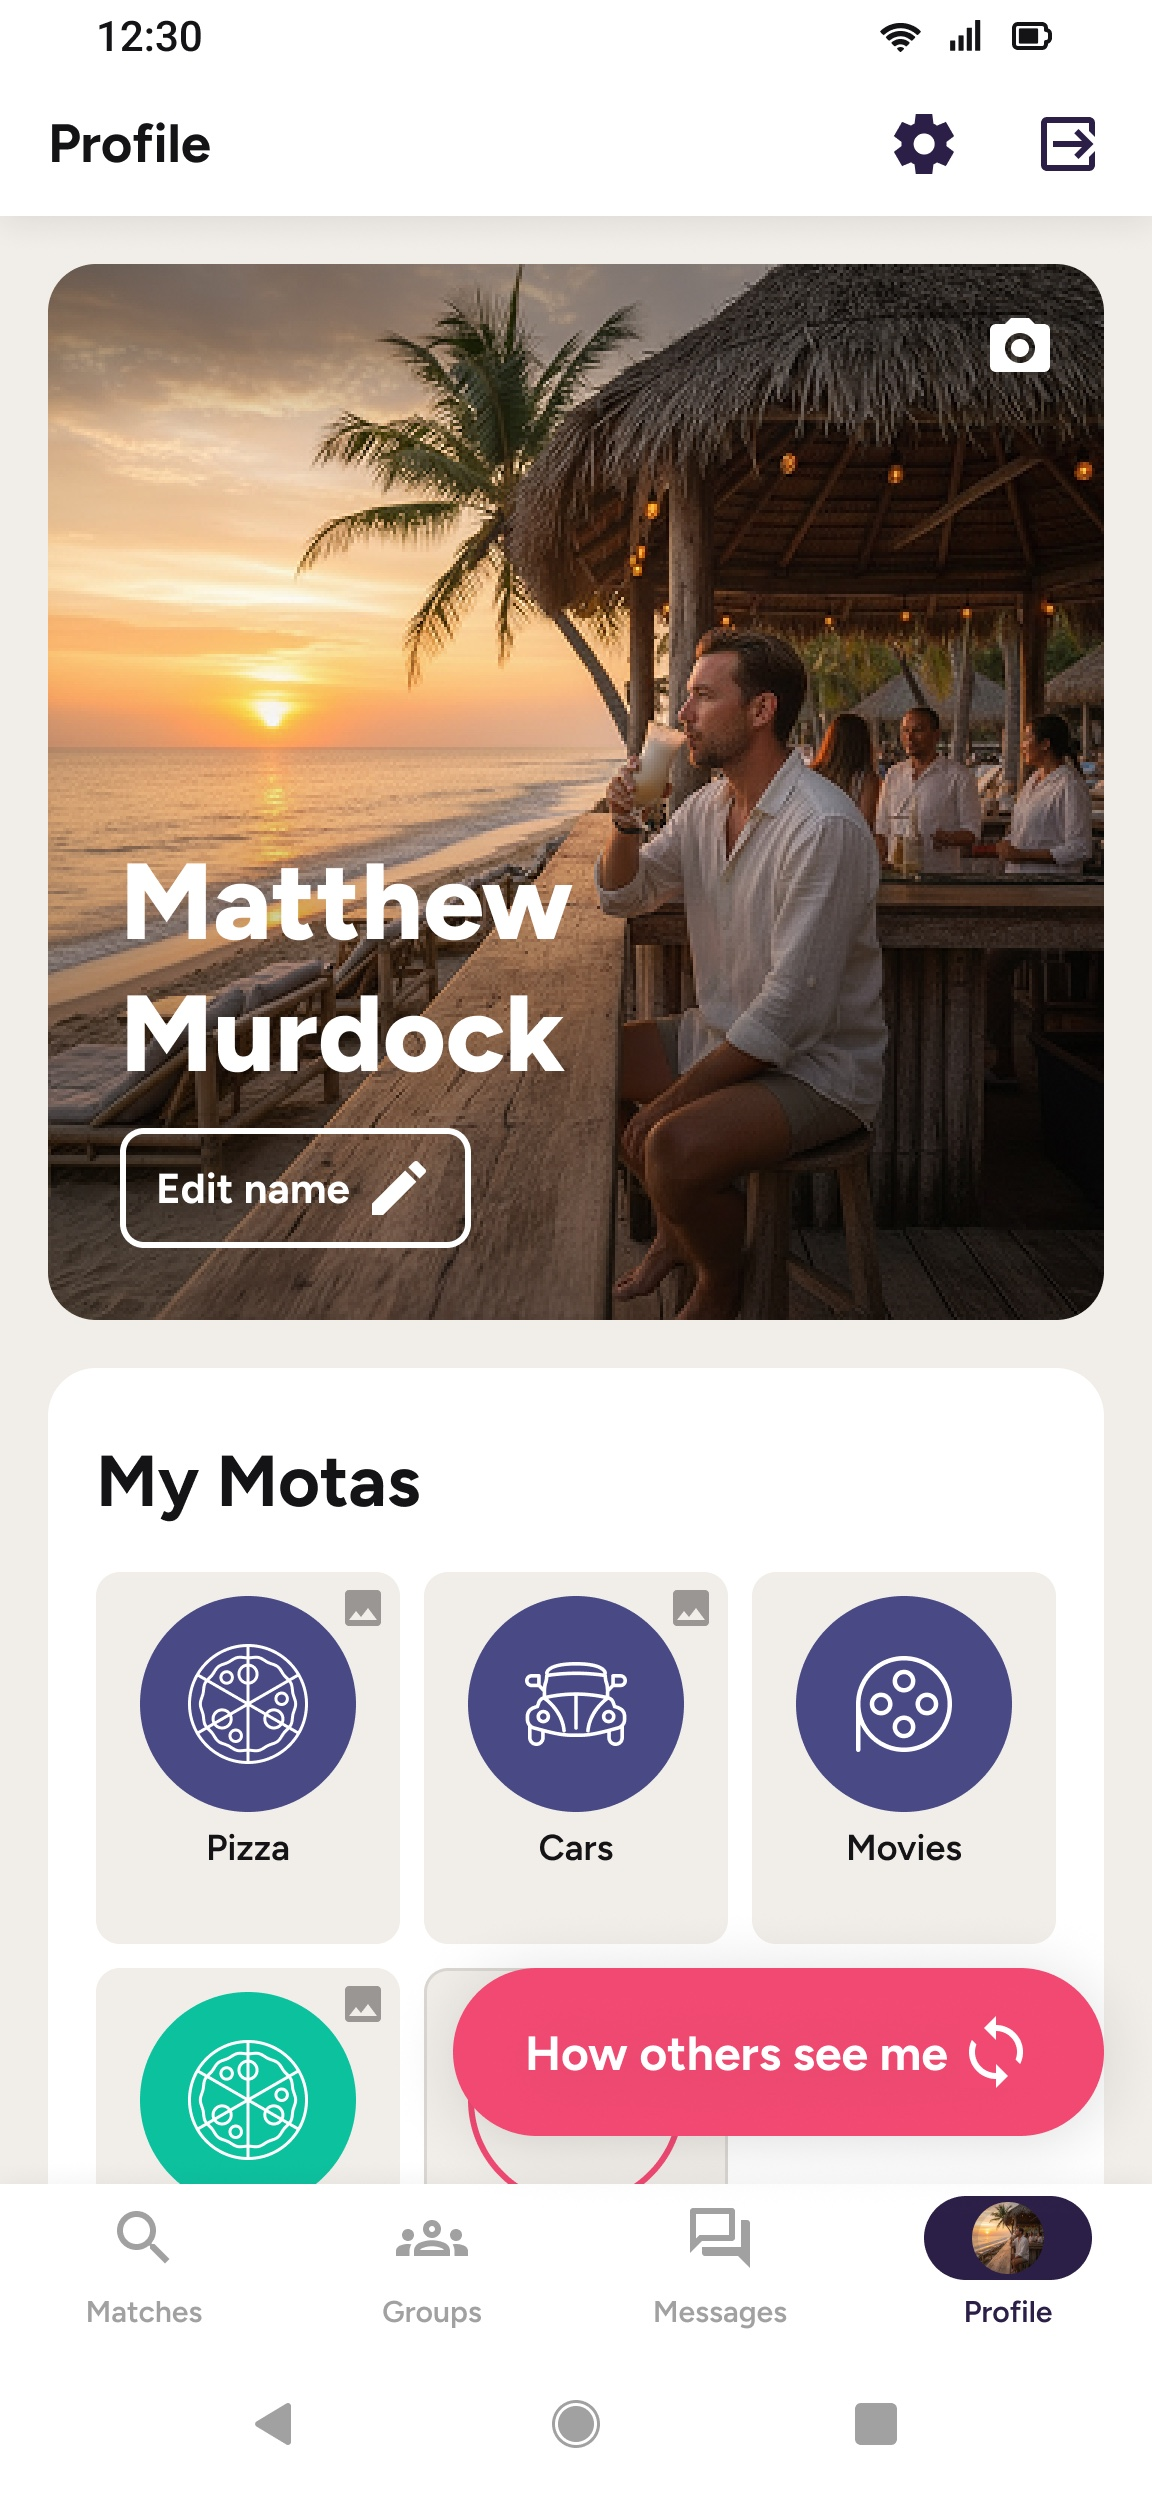
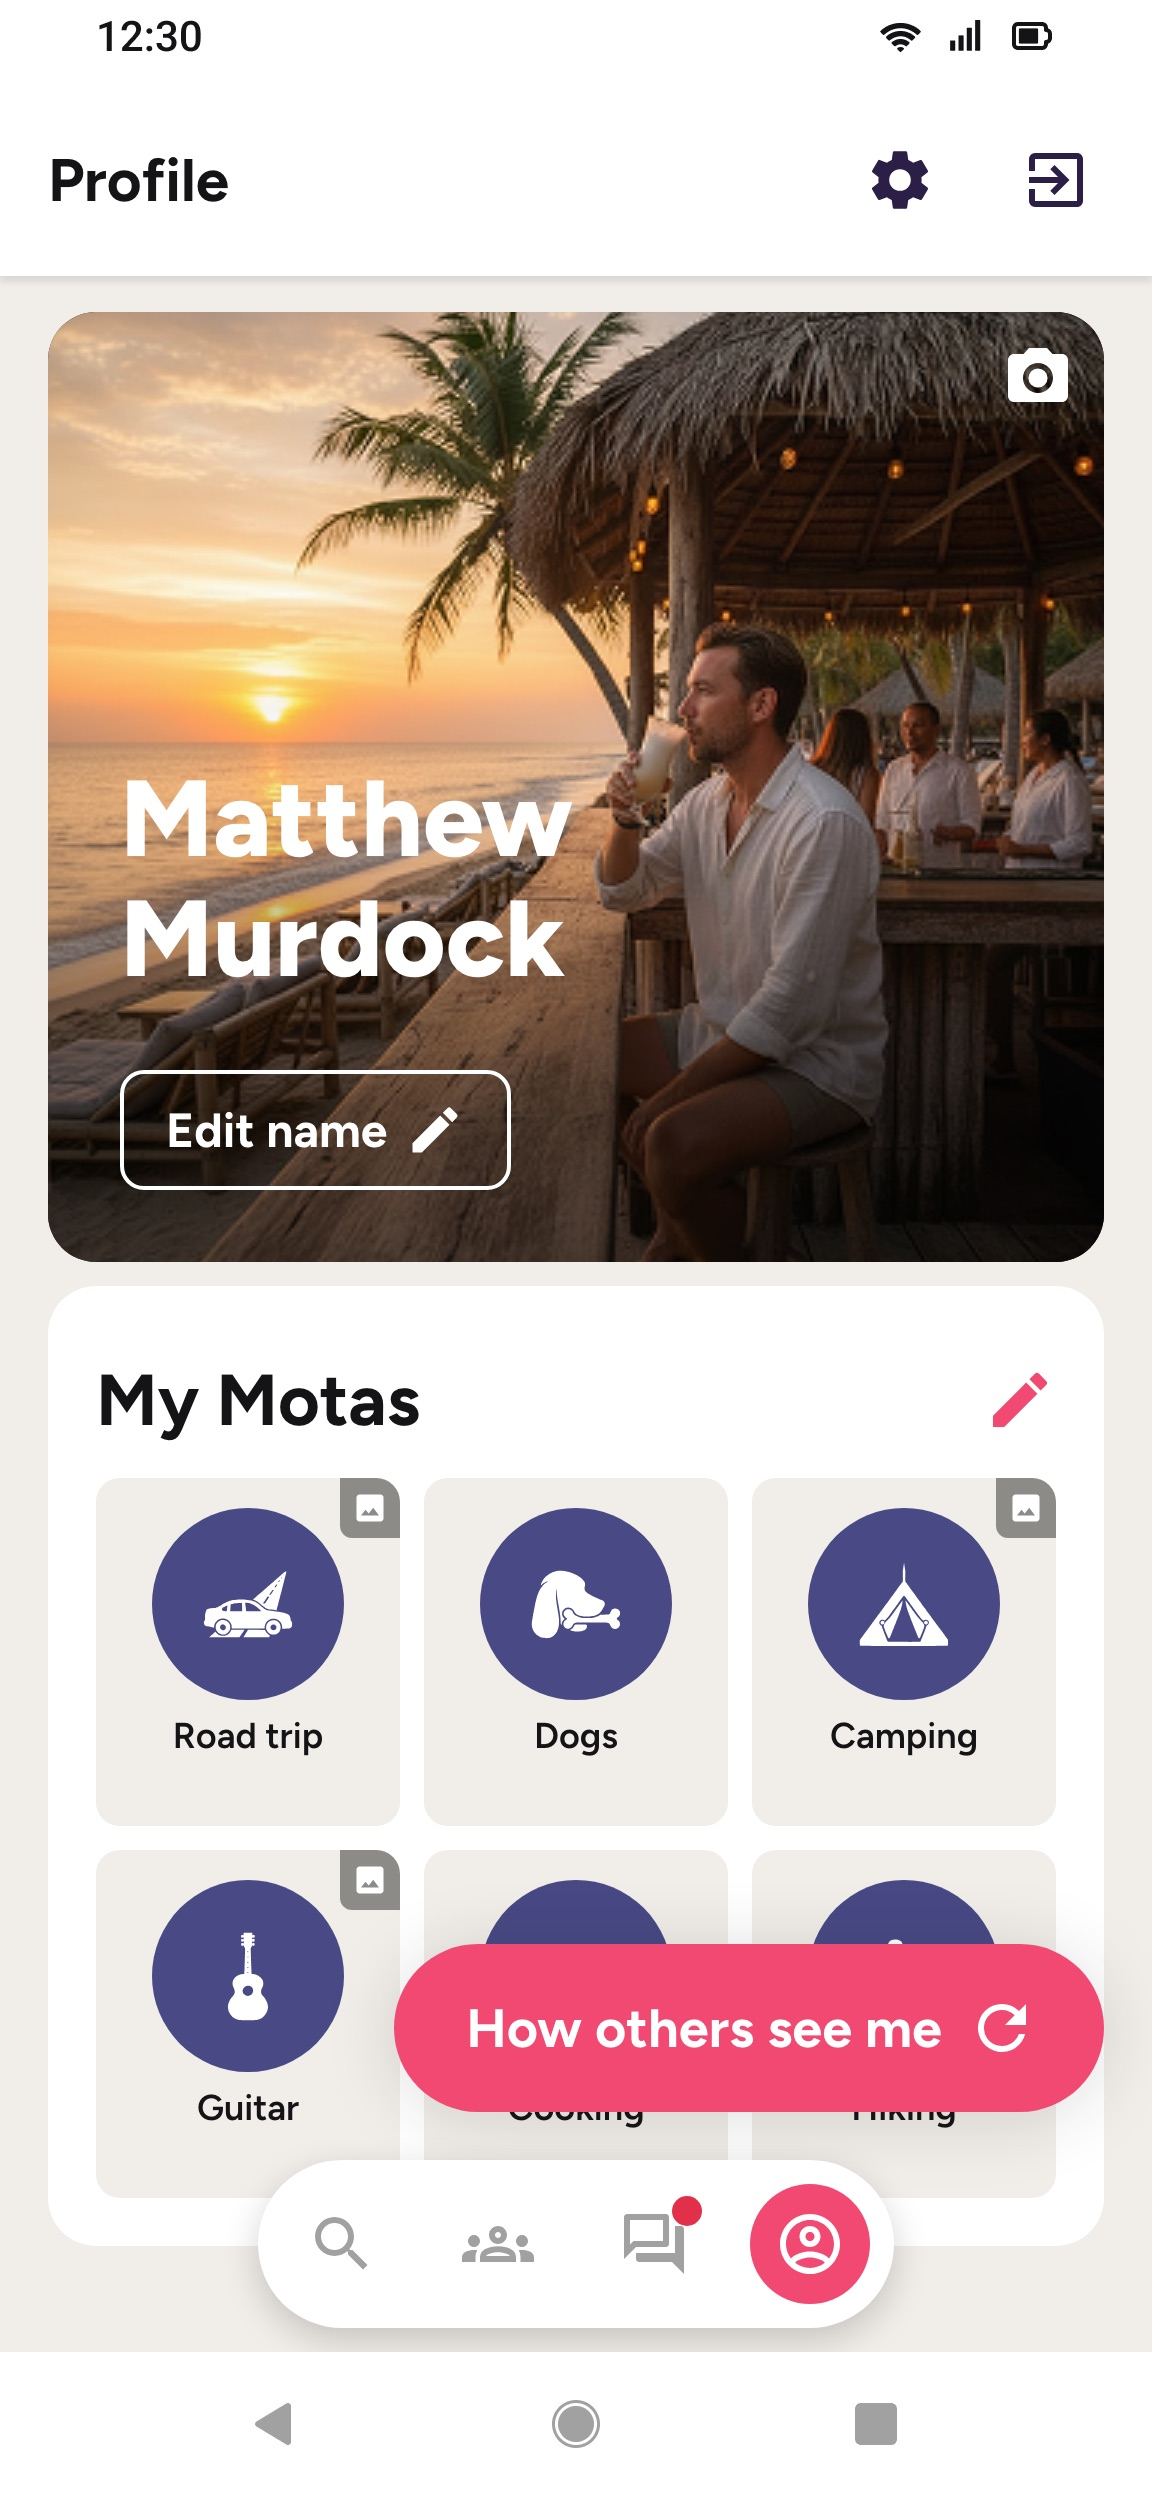
MotaMeet: website thumbnail cover, context-matched UI screens

diff --git a/work/motameet-app.html b/work/motameet-app.html
@@ -45,7 +45,7 @@
       </div>
     </section>
 
-    <section class="wrap"><figure class="figure figure--natural reveal" style="margin:0"><img src="../assets/projects/motameet-app/header.jpg" alt="Moti, the MotaMeet character, surrounded by people and motas" width="2400" height="1029"></figure></section>
+    <section class="wrap"><figure class="figure figure--natural reveal" style="margin:0"><img src="../assets/projects/motameet-app/header.jpg" alt="MotaMeet: Find your people. Moti with guitar, dogs, camping and basketball motas" width="2400" height="1029"></figure></section>
 
     <section class="wrap case-section">
       <div class="case-text reveal">
@@ -93,7 +93,7 @@
     <section class="wrap case-section">
       <div class="case-text reveal">
         <div><span class="eyebrow">06</span><h2 style="margin-top:14px">Matching</h2></div>
-        <div><p>Right away you see how many people share at least one mota with you. Each card leads with what you have in common, and mota stories show the person behind the interest: long rides, weekend road trips, the best pizza in town.</p></div>
+        <div><p>Right away you see how many people share at least one mota with you. Each card leads with what you have in common, and mota stories show the person behind the interest: beach walks with the dog, weekends at the campsite, Sunday chili for friends.</p></div>
       </div>
       <div class="ui-row ui-row--dark reveal"><figure style="margin:0"><img src="../assets/projects/motameet-app/screens/04-first-match.jpg" alt="MotaMeet app: your first matches" loading="lazy" width="1152" height="2496"><figcaption class="cap">Your first matches</figcaption></figure><figure style="margin:0"><img src="../assets/projects/motameet-app/screens/05-swipe.jpg" alt="MotaMeet app: matched by shared motas" loading="lazy" width="1152" height="2496"><figcaption class="cap">Matched by shared motas</figcaption></figure><figure style="margin:0"><img src="../assets/projects/motameet-app/screens/06-stories.jpg" alt="MotaMeet app: mota stories on a profile" loading="lazy" width="1152" height="2496"><figcaption class="cap">Mota stories on a profile</figcaption></figure></div>
     </section>
